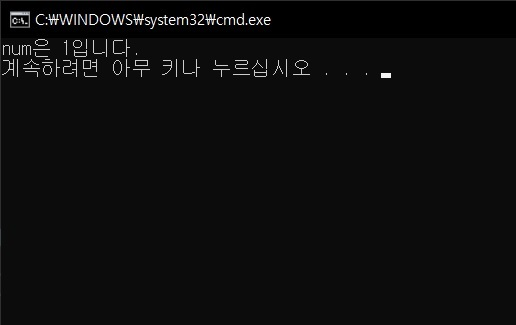
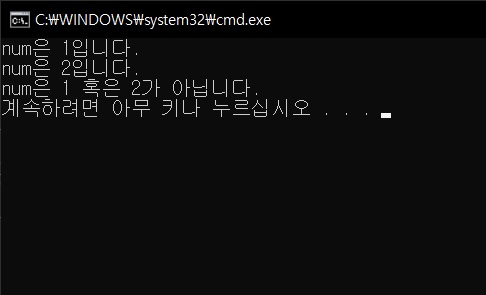
.

diff --git a/_posts/study/2021-04-28-conditional.md b/_posts/study/2021-04-28-conditional.md
@@ -1,0 +1,194 @@
+---
+layout: post
+title:  "[C++] 조건문(if-else, switch)"
+subtitle:   "조건문 정리"
+categories: study
+tags: C++
+comments: true
+---
+## 개요
+> 조건문인 if-else문과 swich문에 대해 정리<br/>
+(공부한 내용을 정리하는 것이라 부족하거나 잘못된 부분이 있을 수 있습니다.)
+
+- 목차
+    - [조건문](#조건문)
+	- [if-else문](#if-else문)
+    - [switch문](#switch문)
+
+
+## 조건문
+---
+주어진 조건이 참인지 거짓인지에 따라 서로 다른 문장을 실행하게 된다. 
+
+조건문의 종류에는 if-else문과 switch문이 있다.
+
+***
+
+## if-else문
+---
+if-else문은 다음과 같은 구조이다.
+
+```c++
+if(//조건식)
+{
+    //조건식이 참이면 실행할 문장
+}
+else
+{
+    //참이 아닐 경우 실행할 문장
+}
+```
+### -예제-
+
+```c++
+#include<iostream>
+
+using namespace std;
+
+int main()
+{
+	int x = 1;
+	int y = 2;
+	if (x > y)
+	{
+		cout << "x는 y보다 큽니다." << endl;
+	}
+	else if (x < y) //또 다른 조건이 있을 경우 else if를 사용한다.
+	{
+		cout << "x는 y보다 작습니다." << endl;
+	}
+	else
+	{
+		cout << "x는 y와 같습니다." << endl;
+	}
+
+	return 0;
+}
+```
+![그림1](../../../../assets/img/study/conditional1.jpg){:width="400"}
+***
+
+## switch문
+---
+switch문은 다음과 같은 구조이다.
+```c++
+int num = 1;
+switch(num)
+{
+case 0:
+    //num가 0이면 실행
+break;
+
+case 1:
+    //num가 1이면 실행
+break;
+
+default:
+    //위의 모든 조건에 거짓일 경우 실행
+break;
+}
+```
+
+if-else문과 다르게 switch문은 관계연산자 중 == 로만 비교를 하게 된다.
+
+위의 예시에서는 int 자료형을 예시로 들었지만 char 형 등 값을 비교할 수 있는 것은 모두 가능하다.
+
+```c++
+char ch = 'a';
+switch(ch)
+{
+case 'a':
+    //ch == 'a' 이면 이 부분 실행
+break;
+case 'b':
+    //ch == 'b' 이면 이 부분 실행
+break;
+case 'c':
+    //ch == 'c' 이면 이 부분 실행
+break;
+default:
+
+break;
+}
+
+//이런 수식도 가능하다
+int x = 1;
+int y = 2;
+switch (y - x)
+{
+case 1:
+	//1이면 여기 실행
+	break;
+case 2:
+	//2이면 여기 실행
+	break;
+default:
+	break;
+}
+```
+<br/>
+
+### -예제-
+
+```c++
+#include<iostream>
+
+using namespace std;
+
+int main()
+{
+	int num = 1;
+
+	switch (num)
+	{
+	case 1:
+		cout << "num은 1입니다." << endl;
+	break;
+	case 2:
+		cout << "num은 2입니다." << endl;
+	break;
+	default:
+		cout << "num은 1 혹은 2가 아닙니다." << endl;
+	break;
+	}
+	return 0;
+}
+```
+![그림2](../../../../assets/img/study/conditional2.jpg){:width="400"}
+
+#### Switch 문은 case 뒤에 break를 반드시 해주어야한다!
+
+위의 예제를 break를 해주지 않게 되면 다음과 같은 상황이 일어난다.
+```c++
+#include<iostream>
+
+using namespace std;
+
+int main()
+{
+	//x는 20, y는 30으로 설정
+	int num = 1;
+
+	switch (num)
+	{
+	case 1:
+		cout << "num은 1입니다." << endl;
+	break;
+	case 2:
+		cout << "num은 2입니다." << endl;
+	default:
+		cout << "num은 1 혹은 2가 아닙니다." << endl;
+	}
+	return 0;
+}
+```
+
+![그림3](../../../../assets/img/study/conditional3.jpg){:width="400"}
+
+break문이 없기 때문에 다음 case절의 문장들이 계속해서 실행되어 switch문의 끝까지 실행되게 된다.
+그렇기 때문에 원하는 값을 얻기 위해서 case마다 꼭 break를 넣어주어야 한다.
+
+***
+
+#### [참고자료]
+천인국, 『어서와 C++은 처음이지』, 인피니티북스(2018)

diff --git a/_posts/study/2021-04-27-operator.md b/_posts/study/2021-04-27-operator.md
@@ -8,7 +8,8 @@ comments: true
 ---
 
 ## 개요
-> 연산자의 종류에 대해 알아보자
+> 연산자의 종류에 대해 정리<br/>
+(공부한 내용을 정리하는 것이라 부족하거나 잘못된 부분이 있을 수 있습니다.)
 
 - 목차
     - [산술연산자](#산술연산자)
